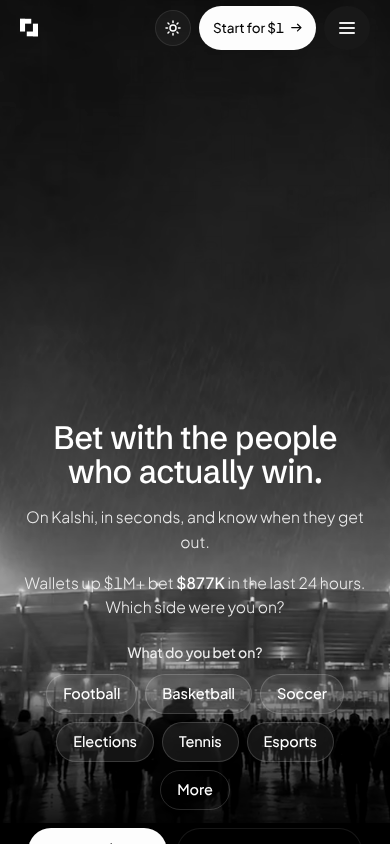
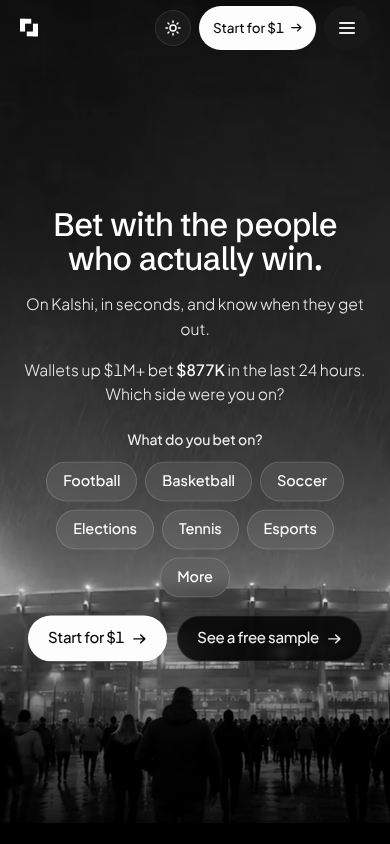
Member home: the AI's Bet Briefing for today's #1 market inline (wins if, costs and pays, big money, the read); balanced AI grid; phones get the data strip in one row and wallet cards two across
Claude-Session: https://claude.ai/code/session_013t6J84dbkTPdjdMU1vGwgF

diff --git a/app/brand.css b/app/brand.css
@@ -1453,9 +1453,9 @@ html.bm .b-stage.is-in:not(.is-done) .s-grow-y { animation: s-grow-y 1.1s var(--
 .ai-strip > div:first-child { border-left: 0; }
 .ai-strip dd { margin: 0; color: var(--ink); font-size: calc(30 * var(--u)); font-weight: 600; letter-spacing: -0.03em; line-height: 1; font-variant-numeric: tabular-nums; }
 .ai-strip dt { color: var(--dim); font-size: calc(12.5 * var(--u)); font-weight: 500; }
-.ai-grid { position: relative; z-index: 1; display: grid; grid-template-columns: 1.4fr 1fr; grid-template-areas: "brief watch" "brief briefing" "ask ask"; gap: calc(16 * var(--u)); width: 100%; }
+.ai-grid { position: relative; z-index: 1; display: grid; grid-template-columns: minmax(0, 1fr) minmax(0, 1fr); grid-template-areas: "brief watch" "ask briefing"; align-items: start; gap: calc(16 * var(--u)); width: 100%; }
 [data-testid="ai-brief"] { grid-area: brief; } [data-testid="ai-watch"] { grid-area: watch; } [data-testid="ai-briefing"] { grid-area: briefing; } [data-testid="ai-ask"] { grid-area: ask; }
-.ai-card--ask .ai-chips { grid-template-columns: repeat(3, minmax(0, 1fr)); }
+
 .ai-card { display: grid; align-content: start; gap: calc(12 * var(--u)); min-width: 0; }
 .ai-card__top { display: flex; justify-content: space-between; align-items: center; gap: 12px; }
 .ai-tag { padding: 4px 10px; border-radius: 999px; border: 1px solid var(--glass-line); color: var(--ink); font-size: calc(11.5 * var(--u)); font-weight: 500; white-space: nowrap; }
@@ -1510,3 +1510,23 @@ html.sr-on .sr.sr-in { opacity: 1; transform: none; transition: opacity .8s cubi
 .sr-progress { position: fixed; top: 0; left: 0; right: 0; height: 2px; z-index: 60; transform-origin: 0 50%; transform: scaleX(0); background: var(--ink); opacity: .85; pointer-events: none; }
 .b-stage[data-first] .b-stage__bg { will-change: scale; transform-origin: 50% 40%; }
 @media (prefers-reduced-motion: reduce) { html.sr-on .sr { opacity: 1; transform: none; } }
+/* The AI analyst's Bet Briefing sample, and phones: the strip in one row, wallet cards two across. */
+.ai-bb { display: grid; border: 1px solid var(--glass-line); border-radius: 14px; overflow: hidden; color: var(--ink); text-decoration: none; }
+.ai-bb__t { padding: 10px 14px; font-size: calc(13 * var(--u)); font-weight: 600; border-bottom: 1px solid var(--glass-line); overflow: hidden; text-overflow: ellipsis; white-space: nowrap; }
+.ai-bb__row { display: grid; grid-template-columns: 96px minmax(0, 1fr); gap: 10px; padding: 9px 14px; border-bottom: 1px solid var(--glass-line); font-size: calc(13 * var(--u)); line-height: 1.45; }
+.ai-bb__row b { color: var(--dim); font-weight: 500; font-size: 11.5px; letter-spacing: .04em; text-transform: uppercase; padding-top: 2px; }
+.ai-bb__more { padding: 10px 14px; font-size: calc(13 * var(--u)); font-weight: 500; }
+.ai-bb:hover { border-color: var(--ink); }
+@media (max-width: 900px) {
+  .ai-strip { grid-template-columns: repeat(3, minmax(0, 1fr)); }
+  .ai-strip > div { border-top: 0; border-left: 1px solid var(--glass-line); padding: 14px 12px; }
+  .ai-strip > div:first-child { border-left: 0; }
+  .ai-strip > div:nth-child(n+4) { display: none; }
+  .ai-strip dd { font-size: 20px; }
+  .ai-strip dt { font-size: 11.5px; }
+  .ai-bb__row { grid-template-columns: minmax(0, 1fr); gap: 2px; }
+  [data-testid="home-wallets"] .s-cards { grid-template-columns: repeat(2, minmax(0, 1fr)) !important; gap: 10px !important; }
+  [data-testid="home-wallets"] .s-wcard { padding: 14px !important; }
+  [data-testid="home-wallets"] .s-wcard .s-big { font-size: 24px !important; }
+  [data-testid="home-wallets"] .s-wcard .b-small { font-size: 12px; }
+}

diff --git a/lib/home/data.ts b/lib/home/data.ts
@@ -11,6 +11,7 @@
  * Server only. */
 import { humanLine } from "@/lib/markets/title";
 import { buildBrief, type Brief } from "@/lib/brief/build";
+import { getBriefing } from "@/lib/briefing/store";
 import { sql } from "drizzle-orm";
 import type { Db } from "@/lib/db";
 import { disagreements, electionDay as isElectionDay, priceGaps, type Disagreement, type PriceGap } from "@/lib/brand/pulse";
@@ -46,7 +47,9 @@ export interface Home {
   polledAt: number | null; lastBetAt: number | null;
   /** The AI analyst on the home: today's brief (written by the AI from our data, numbers verified; the template when the
    *  model is slow or off), the member's watched bets, and the 24-hour data strip. */
-  ai: { brief: Brief | null; watching: number; markets: number; topCategory: string | null };
+  ai: { brief: Brief | null; watching: number; markets: number; topCategory: string | null;
+    /** The Bet Briefing for today's #1 position's market: the first line of its key sections (members see sides). */
+    briefing: { title: string; href: string; origin: string; lines: Array<{ k: string; t: string }> } | null };
 }
 
 let poly: PolymarketClient | null = null, clients: { kalshi: KalshiClient; polymarket: PolymarketClient } | null = null;
@@ -135,6 +138,11 @@ export async function homeData(db: Db, userId: string, settings: { alertPush?: b
     safe(edgeFor(db, (poly ??= new PolymarketClient()), top.id, now), null),
     safe(artFor([top.marketId]).then(m => m.get(top.marketId) ?? null), null),
   ]) : [null, null];
+  const KEYS: Record<string, string> = { rules: "Wins if", cost: "Costs and pays", who: "Big money", read: "The read" };
+  const briefing = top ? await within(getBriefing(db, top.marketId, now).then(b => b && !b.result ? {
+    title: b.title, href: `/briefing?m=${encodeURIComponent(b.marketId)}`, origin: b.origin,
+    lines: b.sections.filter(x => KEYS[x.key] && x.lines[0]).map(x => ({ k: KEYS[x.key]!, t: x.lines[0]! })),
+  } : null), 4000, null) : null;
   const dis = disagreements(pool).slice(0, 3);
   const stream = streamRows;
   const rec = await safe(last10(db, ls.map(l => l.wallet)), new Map());
@@ -153,7 +161,7 @@ export async function homeData(db: Db, userId: string, settings: { alertPush?: b
       desk: openCopies.length ? `You have ${openCopies.length} open ${openCopies.length === 1 ? "copy" : "copies"}.` : null,
     },
     polledAt: polled ? new Date(polled).getTime() : null, lastBetAt: last ? new Date(last).getTime() : null,
-    ai: { brief, watching, markets: new Set(flow.map(b => b.marketId)).size, topCategory: stream?.bands[0]?.category ?? null },
+    ai: { brief, briefing: briefing && briefing.lines.length ? briefing : null, watching, markets: new Set(flow.map(b => b.marketId)).size, topCategory: stream?.bands[0]?.category ?? null },
   };
 }
 

diff --git a/components/home/AiDesk.tsx b/components/home/AiDesk.tsx
@@ -54,13 +54,19 @@ export function AiDesk({ d }: { d: Home }) {
           <Pill href="/watch" kind="ghost">{d.ai.watching ? "Your watched bets" : "Add a bet"}</Pill>
         </Panel>
         <Panel className="ai-card" testid="ai-briefing">
-          <p className="b-label">Bet Briefing</p>
-          <p className="b-small">Paste a Polymarket or Kalshi link: what it needs to win, what it costs and pays, who&apos;s on each side and what the money says.</p>
+          <div className="ai-card__top"><p className="b-label">Bet Briefing</p>{d.ai.briefing ? <span className="ai-tag">{d.ai.briefing.origin === "model" ? "Written by the AI" : "From the data"}</span> : null}</div>
+          {d.ai.briefing ? (
+            <a className="ai-bb" href={d.ai.briefing.href} data-testid="ai-briefing-sample">
+              <span className="ai-bb__t">Today&apos;s #1 · {d.ai.briefing.title}</span>
+              {d.ai.briefing.lines.map(l => <span key={l.k} className="ai-bb__row"><b>{l.k}</b><span>{l.t}</span></span>)}
+              <span className="ai-bb__more">The full briefing →</span>
+            </a>
+          ) : <p className="b-small">Paste a Polymarket or Kalshi link: what it needs to win, what it costs and pays, who&apos;s on each side and what the money says.</p>}
           <form className="ai-form" method="get" action="/briefing">
-            <input name="url" type="url" inputMode="url" placeholder="Paste a market link" aria-label="Market link" required />
+            <input name="url" type="url" inputMode="url" placeholder="Paste any market link" aria-label="Market link" required />
             <button type="submit">Brief me</button>
           </form>
-          {d.top ? <a className="ai-link" href={`/briefing?m=${encodeURIComponent(d.top.bet.marketId)}`}>Or today&apos;s #1: {d.top.bet.title} →</a> : null}
+          {!d.ai.briefing && d.top ? <a className="ai-link" href={`/briefing?m=${encodeURIComponent(d.top.bet.marketId)}`}>Or today&apos;s #1: {d.top.bet.title} →</a> : null}
         </Panel>
         <Panel className="ai-card ai-card--ask" testid="ai-ask">
           <p className="b-label">Ask Insidir</p>
